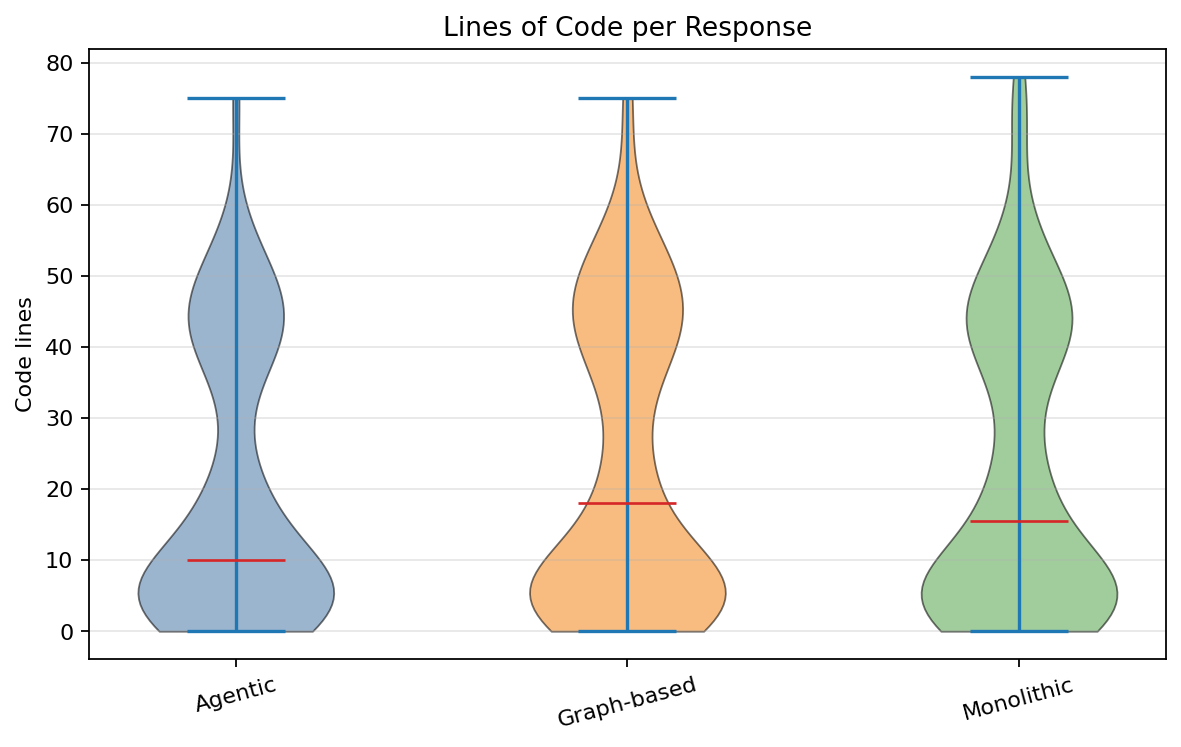
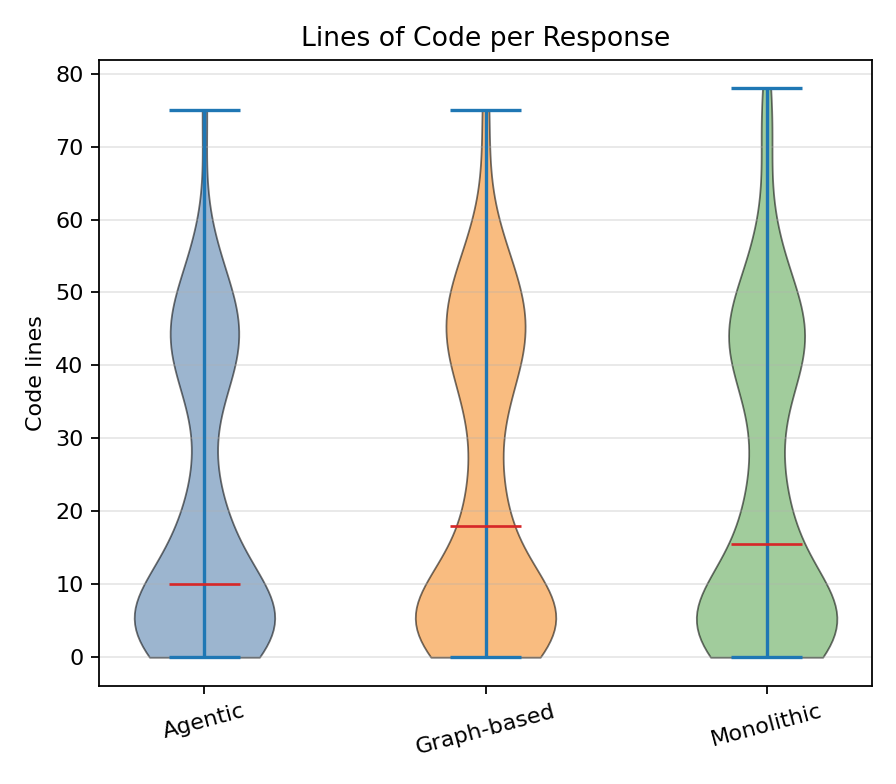
updated plots

Changed region(s): [[0.0, 0.0308, 1.0, 0.9853], [0.7812, 0.7082, 0.8125, 0.7697], [0.75, 0.7697, 0.7812, 0.8005]]

diff --git a/app/rq2/plots.py b/app/rq2/plots.py
@@ -16,6 +16,8 @@ ARCH_FILL_COLORS = {
     "one_node_architecture": "#54A24B",
 }
 
+SINGLE_DISTRIBUTION_FIGSIZE = (5.6, 4.9)
+
 
 def _rate_equals_one(series: pd.Series) -> float:
     """Return the share of observed numeric values that equal 1."""
@@ -55,6 +57,41 @@ def _ordered_arches(df: pd.DataFrame, preferred: Sequence[str] | None) -> list[s
 def _display_arch_labels(architectures: Sequence[str]) -> list[str]:
     """Return shorter human-readable labels for plots."""
     return [ARCH_DISPLAY_LABELS.get(arch, arch.replace("_", " ")) for arch in architectures]
+
+
+def _metric_series_by_arch(
+    filtered_rows: pd.DataFrame,
+    arch_order: Sequence[str],
+    metric: str,
+) -> list[pd.Series]:
+    """Return numeric non-null metric values for each architecture."""
+    return [
+        pd.to_numeric(
+            filtered_rows.loc[filtered_rows["arch_id"] == arch, metric], errors="coerce"
+        ).dropna()
+        for arch in arch_order
+    ]
+
+
+def _style_boxplot(box, arch_order: Sequence[str], color_map: dict[str, str]) -> None:
+    """Apply consistent boxplot colors and borders."""
+    for patch, arch in zip(box["boxes"], arch_order):
+        patch.set_facecolor(color_map[arch])
+        patch.set_alpha(0.65)
+        patch.set_edgecolor("black")
+        patch.set_linewidth(1.0)
+
+
+def _style_violin(violin, arch_order: Sequence[str], color_map: dict[str, str]) -> None:
+    """Apply consistent violin colors and median styling."""
+    for body, arch in zip(violin["bodies"], arch_order):
+        body.set_facecolor(color_map[arch])
+        body.set_alpha(0.55)
+        body.set_edgecolor("black")
+        body.set_linewidth(0.8)
+    if "cmedians" in violin:
+        violin["cmedians"].set_color("#d62728")
+        violin["cmedians"].set_linewidth(1.2)
 
 
 def generate_plots(
@@ -97,7 +134,7 @@ def generate_plots(
 
     def _save(fig, filename: str) -> None:
         fig.tight_layout()
-        fig.savefig(out_dir / f"{filename}.{plot_format}", dpi=dpi, bbox_inches="tight")
+        fig.savefig(out_dir / f"{filename}.{plot_format}", dpi=dpi)
         plt.close(fig)
 
     # Figure 1: per-response means with std bars
@@ -134,12 +171,7 @@ def generate_plots(
     fig, axes = plt.subplots(1, len(metrics), figsize=(5 * len(metrics), 4.8))
     axes = [axes] if len(metrics) == 1 else axes
     for ax, (metric, label) in zip(axes, metrics.items()):
-        data = [
-            pd.to_numeric(
-                filtered_rows.loc[filtered_rows["arch_id"] == arch, metric], errors="coerce"
-            ).dropna()
-            for arch in arch_order
-        ]
+        data = _metric_series_by_arch(filtered_rows, arch_order, metric)
         box = ax.boxplot(
             data,
             labels=arch_labels,
@@ -147,11 +179,7 @@ def generate_plots(
             showfliers=True,
             medianprops={"color": "#d62728", "linewidth": 1.1},
         )
-        for patch, arch in zip(box["boxes"], arch_order):
-            patch.set_facecolor(color_map[arch])
-            patch.set_alpha(0.65)
-            patch.set_edgecolor("black")
-            patch.set_linewidth(1.0)
+        _style_boxplot(box, arch_order, color_map)
         ax.set_title(f"Variability across responses: {label}")
         ax.set_ylabel(label)
         ax.tick_params(axis="x", rotation=12)
@@ -160,15 +188,10 @@ def generate_plots(
 
     # Figure 2b: per-metric distribution plots with larger readable panels
     for metric, label in metrics.items():
-        data = [
-            pd.to_numeric(
-                filtered_rows.loc[filtered_rows["arch_id"] == arch, metric], errors="coerce"
-            ).dropna()
-            for arch in arch_order
-        ]
+        data = _metric_series_by_arch(filtered_rows, arch_order, metric)
         if not any(len(series) for series in data):
             continue
-        fig, ax = plt.subplots(1, 1, figsize=(5.6, 4.9))
+        fig, ax = plt.subplots(1, 1, figsize=SINGLE_DISTRIBUTION_FIGSIZE)
         box = ax.boxplot(
             data,
             labels=arch_labels,
@@ -177,17 +200,37 @@ def generate_plots(
             widths=0.45,
             medianprops={"color": "#d62728", "linewidth": 1.2},
         )
-        for patch, arch in zip(box["boxes"], arch_order):
-            patch.set_facecolor(color_map[arch])
-            patch.set_alpha(0.65)
-            patch.set_edgecolor("black")
-            patch.set_linewidth(1.0)
+        _style_boxplot(box, arch_order, color_map)
         ax.set_title(label, fontsize=14)
         ax.set_ylabel(label, fontsize=12)
         ax.tick_params(axis="x", rotation=10, labelsize=12)
         ax.tick_params(axis="y", labelsize=11)
         ax.grid(axis="y", alpha=0.3)
         _save(fig, f"RQ2_per_response_distribution_{metric}")
+
+        if metric == "answer_code_lines":
+            continue
+
+        try:
+            fig, ax = plt.subplots(1, 1, figsize=SINGLE_DISTRIBUTION_FIGSIZE)
+            positions = list(range(1, len(arch_order) + 1))
+            violin = ax.violinplot(
+                data,
+                positions=positions,
+                showmeans=False,
+                showmedians=True,
+                showextrema=True,
+            )
+            _style_violin(violin, arch_order, color_map)
+            ax.set_xticks(positions, arch_labels)
+            ax.set_title(label, fontsize=14)
+            ax.set_ylabel(label, fontsize=12)
+            ax.tick_params(axis="x", rotation=10, labelsize=12)
+            ax.tick_params(axis="y", labelsize=11)
+            ax.grid(axis="y", alpha=0.3)
+            _save(fig, f"RQ2_per_response_violin_distribution_{metric}")
+        except Exception as exc:  # pragma: no cover - defensive plotting fallback
+            print(f"[WARN] Could not generate violin plot for {metric}: {exc}")
 
     # Figure 3: quality/reliability rates (if available)
     quality_panels: list[tuple[str, pd.Series, str]] = []
@@ -233,15 +276,9 @@ def generate_plots(
 
     # Figure 4: dedicated code-lines metric plot (requested auxiliary metric)
     if "answer_code_lines" in filtered_rows.columns:
-        series_by_arch = [
-            pd.to_numeric(
-                filtered_rows.loc[filtered_rows["arch_id"] == arch, "answer_code_lines"],
-                errors="coerce",
-            ).dropna()
-            for arch in arch_order
-        ]
+        series_by_arch = _metric_series_by_arch(filtered_rows, arch_order, "answer_code_lines")
         if any(len(s) for s in series_by_arch):
-            fig, ax = plt.subplots(1, 1, figsize=(7.5, 4.8))
+            fig, ax = plt.subplots(1, 1, figsize=SINGLE_DISTRIBUTION_FIGSIZE)
             box = ax.boxplot(
                 series_by_arch,
                 labels=arch_labels,
@@ -249,11 +286,7 @@ def generate_plots(
                 showfliers=True,
                 medianprops={"color": "#d62728", "linewidth": 1.2},
             )
-            for patch, arch in zip(box["boxes"], arch_order):
-                patch.set_facecolor(color_map[arch])
-                patch.set_alpha(0.65)
-                patch.set_edgecolor("black")
-                patch.set_linewidth(1.0)
+            _style_boxplot(box, arch_order, color_map)
             ax.set_title("Lines of Code per Response")
             ax.set_ylabel("Code lines")
             ax.tick_params(axis="x", rotation=15)
@@ -262,7 +295,7 @@ def generate_plots(
 
             # Figure 5: code-lines distribution as violin plot
             try:
-                fig, ax = plt.subplots(1, 1, figsize=(7.5, 4.8))
+                fig, ax = plt.subplots(1, 1, figsize=SINGLE_DISTRIBUTION_FIGSIZE)
                 positions = list(range(1, len(arch_order) + 1))
                 violin = ax.violinplot(
                     series_by_arch,
@@ -271,14 +304,7 @@ def generate_plots(
                     showmedians=True,
                     showextrema=True,
                 )
-                for body, arch in zip(violin["bodies"], arch_order):
-                    body.set_facecolor(color_map[arch])
-                    body.set_alpha(0.55)
-                    body.set_edgecolor("black")
-                    body.set_linewidth(0.8)
-                if "cmedians" in violin:
-                    violin["cmedians"].set_color("#d62728")
-                    violin["cmedians"].set_linewidth(1.2)
+                _style_violin(violin, arch_order, color_map)
                 ax.set_xticks(positions, arch_labels)
                 ax.set_title("Lines of Code per Response")
                 ax.set_ylabel("Code lines")
